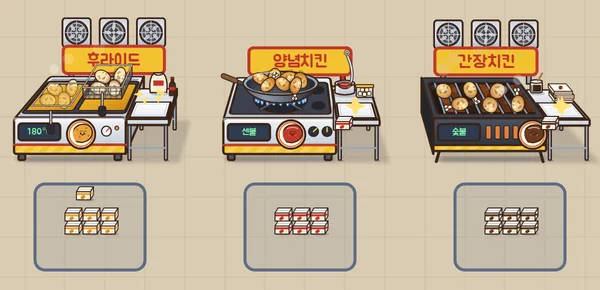
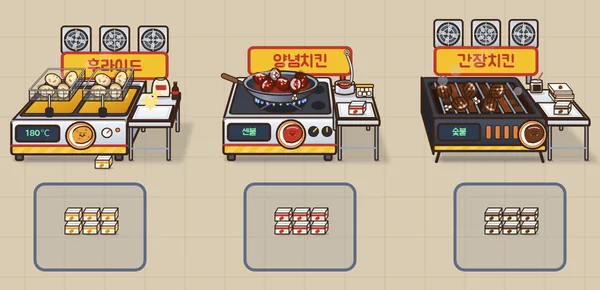
층층이: 5층 한강라면 마무리 — 소개 캡처 다시 찍기, apps.ts 5층 설명, 진행 중 메모를 히스토리로

diff --git a/app/data/apps.ts b/app/data/apps.ts
@@ -375,7 +375,7 @@ export const apps: App[] = [
 • 2층 따끈 붕어빵: 반원 아치 천막 겨울 노점, 세 대 생김새가 다 달라요 — 호떡 손수레(반죽 공을 누르개로 꾹 → 가장자리가 볼록한 노릇한 호떡) · 붕어빵 둥근 드럼(뚜껑 달린 붕어 틀이 빙글 돌며 반죽 → 팥 → 탁 덮고 굽기, 옆 철망 진열대에 붕어빵이 줄줄이) · 계란빵 스테인리스 기계 두 대(양쪽 판에 반죽, 한쪽에 달걀 → 판을 책처럼 덮었다 열면 봉긋 부푼 계란빵)
 • 3층 바삭치킨: 후라이드 전기 튀김기(철망 바구니가 기름에 퐁당 → 쑥 올라와 탈탈) · 양념 가스레인지 웍(국자로 양념 주르륵 → 웍 흔들어 버무림) · 간장 숯불 화로(붓으로 쓱쓱) — 위엔 환풍기가 빙글빙글, 집게로 쟁반에
 • 4층 24시 층층편의점(실내라 천막 없음): 계산대 핫바 롤러 그릴(데굴데굴 노릇 → 쟁반에 케첩·머스터드 지그재그) · 키 큰 바나나우유 유리문 냉장고(선반 네 단 채우기 → 문 열고 꺼냄) · 3단 호빵 찜기(김 서린 유리 속에서 호빵이 부풂)
-• 5층 한강라면: 편의점 즉석 라면 조리기 3대 — 은박 용기에 면 → 꼭지에서 물 → 인덕션에서 보글보글 + 달걀·파(타이머 3:00), 옆엔 봉지라면 진열대
+• 5층 한강라면: 큼직한 즉석 라면 조리기 3대(왼쪽·정면·오른쪽에서 본 모습, 위엔 강변 전구줄) — 은박 용기에 면 → 꼭지에서 물 → 인덕션에서 보글보글 + 달걀·파(타이머 3:00) → 쟁반에 완성 라면, 옆엔 봉지라면 진열대
 • 6층 ♨ 층층 찜질방: 황토 불가마 맥반석 계란(아궁이 불 속에서 노릇 → 빨간 망에 셋) · 살얼음 식혜 기계(밥알이 빙빙 돌고 살얼음 → 컵에 졸졸) · 팥빙수(빙수기에서 눈꽃 얼음 → 팥·인절미·콩가루·연유). 찜질복 입은 손님과 관광객이 와요
 • 7층 층층 뷰티(K화장품): 마스크팩(에센스 촉촉 → 접어서 봉투 → 실링기 꾹) · 쿠션 팩트(회전판에서 채우기 → 퍼프 톡톡 → 뚜껑 탁) · 립틴트(컨베이어 위 병에 빨간 틴트 → 분홍 뚜껑). 외국인 관광객이 많이 와요
 • 8층 층층 한복대여: 기와 지붕 간판에 청사초롱이 흔들리고 단풍잎이 떨어져요(들어오면 가야금 소리). 재단대 위에 펼쳐 놓고 — 여자 한복(다홍치마가 부채처럼 → 노랑 저고리 → 고름) · 남자 한복(바지·저고리·조끼 → 갓이 쓱) · 노리개(매듭 → 옥 → 빨간 술). 다 빌린 손님은 한복을 입고 나가요

diff --git a/CLAUDE.md b/CLAUDE.md
@@ -75,15 +75,14 @@ version: 'x.y.z+build'
   테마는 6층까지(사용자 확정) → 2026-10-21 7층 층층 뷰티·8층 층층 한복대여·9층 층층 박물관 굿즈샵 추가 → 2026-10-23 10층 층층 야구장 매점, 11층부터 원래 스타일(3D 프린터 + KINDS 기본 물건). THEMES에 층을 더하면 프린터가 자동으로 위로 밀림. 실제 브랜드명·로고는 쓰지 않음.
   제목 '층층이'(부제 '쌓고 팔고, 빨리빨리!') 확정. 시안: 자료실 '층층이_상가건물시안'·'층층이_1-3층가게시안'
 
-## 진행 중 — 5층 한강라면 원근 (2026-10-23, 커밋만·푸시 안 함)
-- 사용자: 방향·그림자·접시 방향만(두 번째: "오른쪽 방향·라면 방향 제대로") — 조리기 깊이 36(시점 쪽 옆면 확실히), 봉지라면 시점 쪽 두께, 진열대 선반 윗면, 메뉴판·전구줄 23 위로(`RAM_UP`, deck `boardUp`, 테마 `lampUp`), 글자 뒤 조리기 윗면 다시 그림. 세 대 같은 조리기 그대로, `ram5()` + `RAM5L/RAM5R`(withVO ±VOFF), deck `fine`(바닥 그림자 시점대로)·`ptray`(원근 쟁반 `pTray`), 조리기 `standBox` 윗면·옆면, 진열대 뒤 틀, 서 있는 것 흐린 그림자.
-- 세 번째(사용자: 간판 없이 크게, 디테일): 메뉴판·기둥 뺌(deck `noBoard`), 조리기 1.45배(`K5`, svg 묶음 transform + animRamen5의 R2·u도 같은 배율, 쟁반으로는 R2o), 봉지 진열대 오른쪽 뒤로 0.85배, 젓가락 통 뺌, 옆면 환기 구멍·조리 칸 뒷벽 골·물받이 철망·고무발.
-- 네 번째: 진열대 뒤판·시점 쪽 옆판·윗판(사용자: 투명해 보임), 빈 용기 더미를 상판 깊이만큼 옮기고 진열대 뒤로(오른쪽 기계에서 상판 밖으로 나가던 것), 쟁반 위 완성 라면은 은박 그릇 1.1배로 직접 그림(reveal 2 — 작은 그림은 아래 칸 적재 때만).
-- 남은 것: 사용자 확인 → 소개 캡처·apps.ts(필요하면)·히스토리 → 푸시.
-
 ## 작업 히스토리
 
 ### 2026-10-23
+- 층층이 5층 한강라면 다시(사용자와 하나씩 맞춤):
+  사용자: 방향·그림자·접시 방향만(두 번째: "오른쪽 방향·라면 방향 제대로") — 조리기 깊이 36(시점 쪽 옆면 확실히), 봉지라면 시점 쪽 두께, 진열대 선반 윗면, 메뉴판·전구줄 23 위로(`RAM_UP`, deck `boardUp`, 테마 `lampUp`), 글자 뒤 조리기 윗면 다시 그림. 세 대 같은 조리기 그대로, `ram5()` + `RAM5L/RAM5R`(withVO ±VOFF), deck `fine`(바닥 그림자 시점대로)·`ptray`(원근 쟁반 `pTray`), 조리기 `standBox` 윗면·옆면, 진열대 뒤 틀, 서 있는 것 흐린 그림자.
+  세 번째(사용자: 간판 없이 크게, 디테일): 메뉴판·기둥 뺌(deck `noBoard`), 조리기 1.45배(`K5`, svg 묶음 transform + animRamen5의 R2·u도 같은 배율, 쟁반으로는 R2o), 봉지 진열대 오른쪽 뒤로 0.85배, 젓가락 통 뺌, 옆면 환기 구멍·조리 칸 뒷벽 골·물받이 철망·고무발.
+  네 번째: 진열대 뒤판·시점 쪽 옆판·윗판(사용자: 투명해 보임), 빈 용기 더미를 상판 깊이만큼 옮기고 진열대 뒤로(오른쪽 기계에서 상판 밖으로 나가던 것), 쟁반 위 완성 라면은 은박 그릇 1.1배로 직접 그림(reveal 2 — 작은 그림은 아래 칸 적재 때만).
+  소개 캡처 전부 다시, apps.ts 5층 설명.
 - 층층이 배달 보상 손봄(사용자: '배달이 제일 힘든데 보상이 박하고 떨이가 맘에 걸림 → 덤이니까 손님이 기분 좋아 팁'): 개당 최고층 값 × 6 → × 10(`CFG.deliv.mul`), 떨이 → **덤**(값 안 받고 건넴, `DUM_ASK`/`DUM_DONE`/`DUM_GOLD`, 건넬 때마다 '덤 ♥♥' + 분홍 반짝이),
   정산 = 기분 팁(배달 보상 × 덤 개수 × 25%, 최대 150% — `dum`/`dumMax`) + 황금 덤이면 감동 팁(황금 제값 + 배달 보상 한 번 더, 금화·흔들림·'🌟 감동 팁!'). 헤드리스: 최고층 값 100, 2개 빨리 배달 3,000 + 덤 3개(황금 1) 기분 팁 2,250 + 감동 팁 5,000 = 10,250 기대값과 같음, 오류 0. apps.ts 배달 설명
 - 층층이 4층 편의점 다시(사용자와 하나씩 맞춤) — 사용자 결정: 실내라 천막·지붕·조명 없음(위쪽 비움 — 이름은 기계에 붙임 `name4`·`tag4`), 기계마다 몸통 다르게 + 원근(`machine4(kind)`, vo ±VOFF·0).
